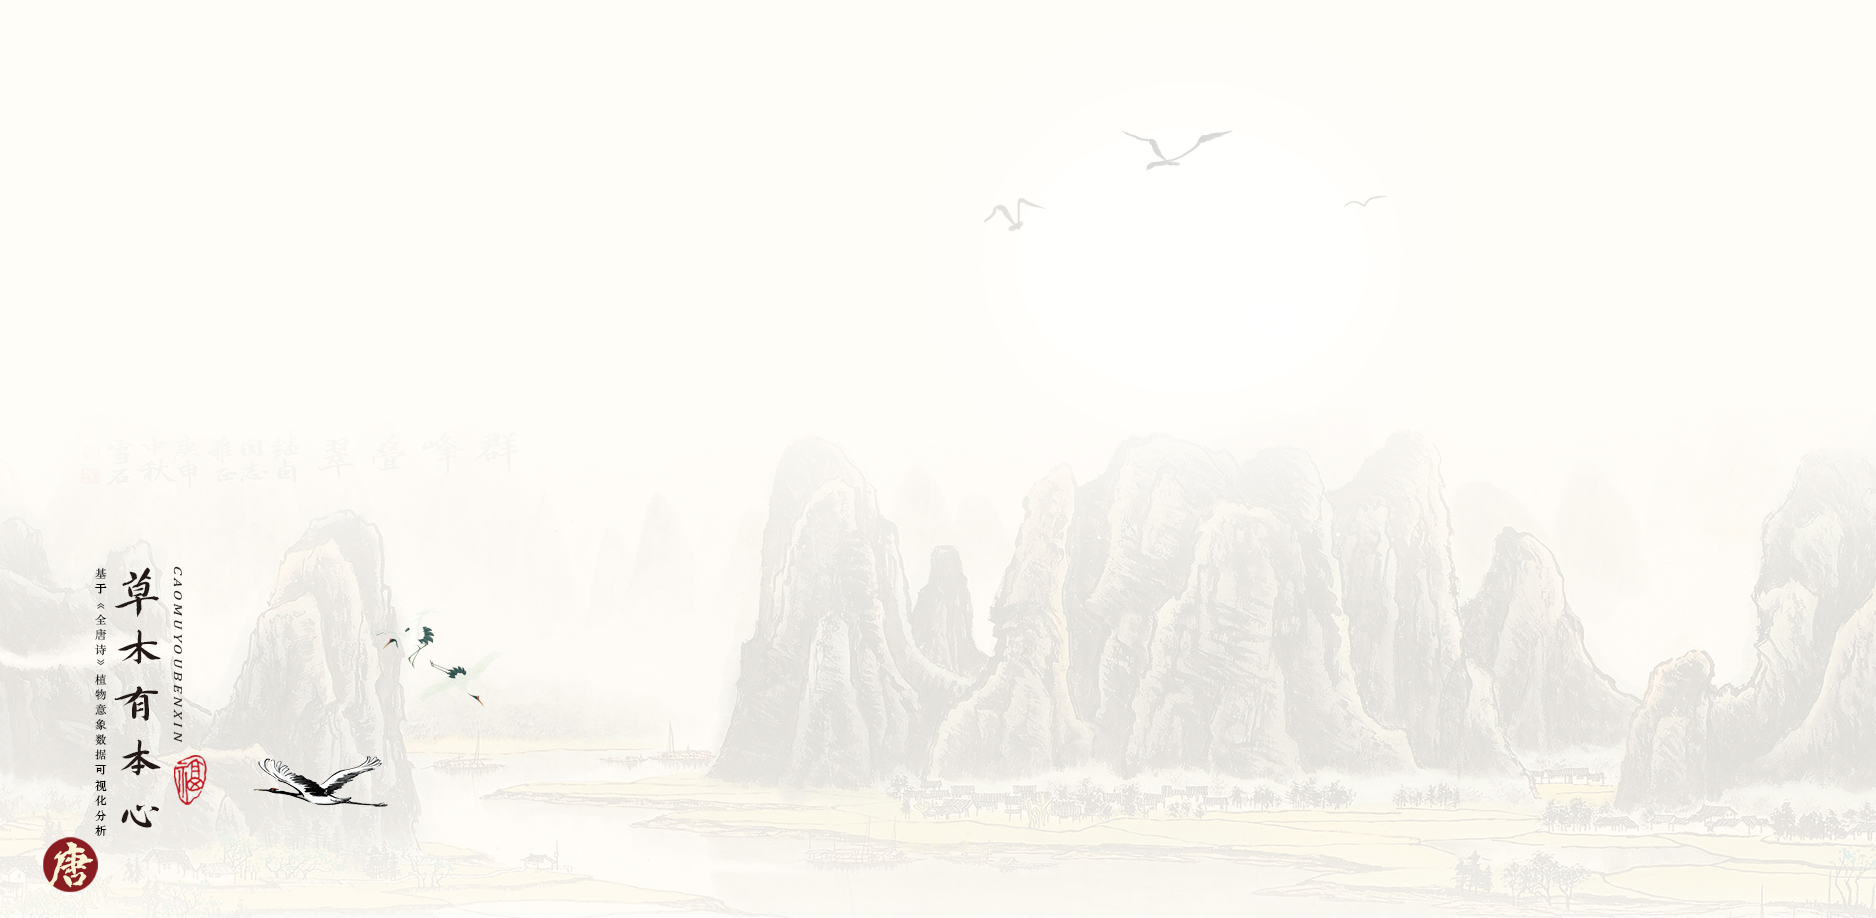
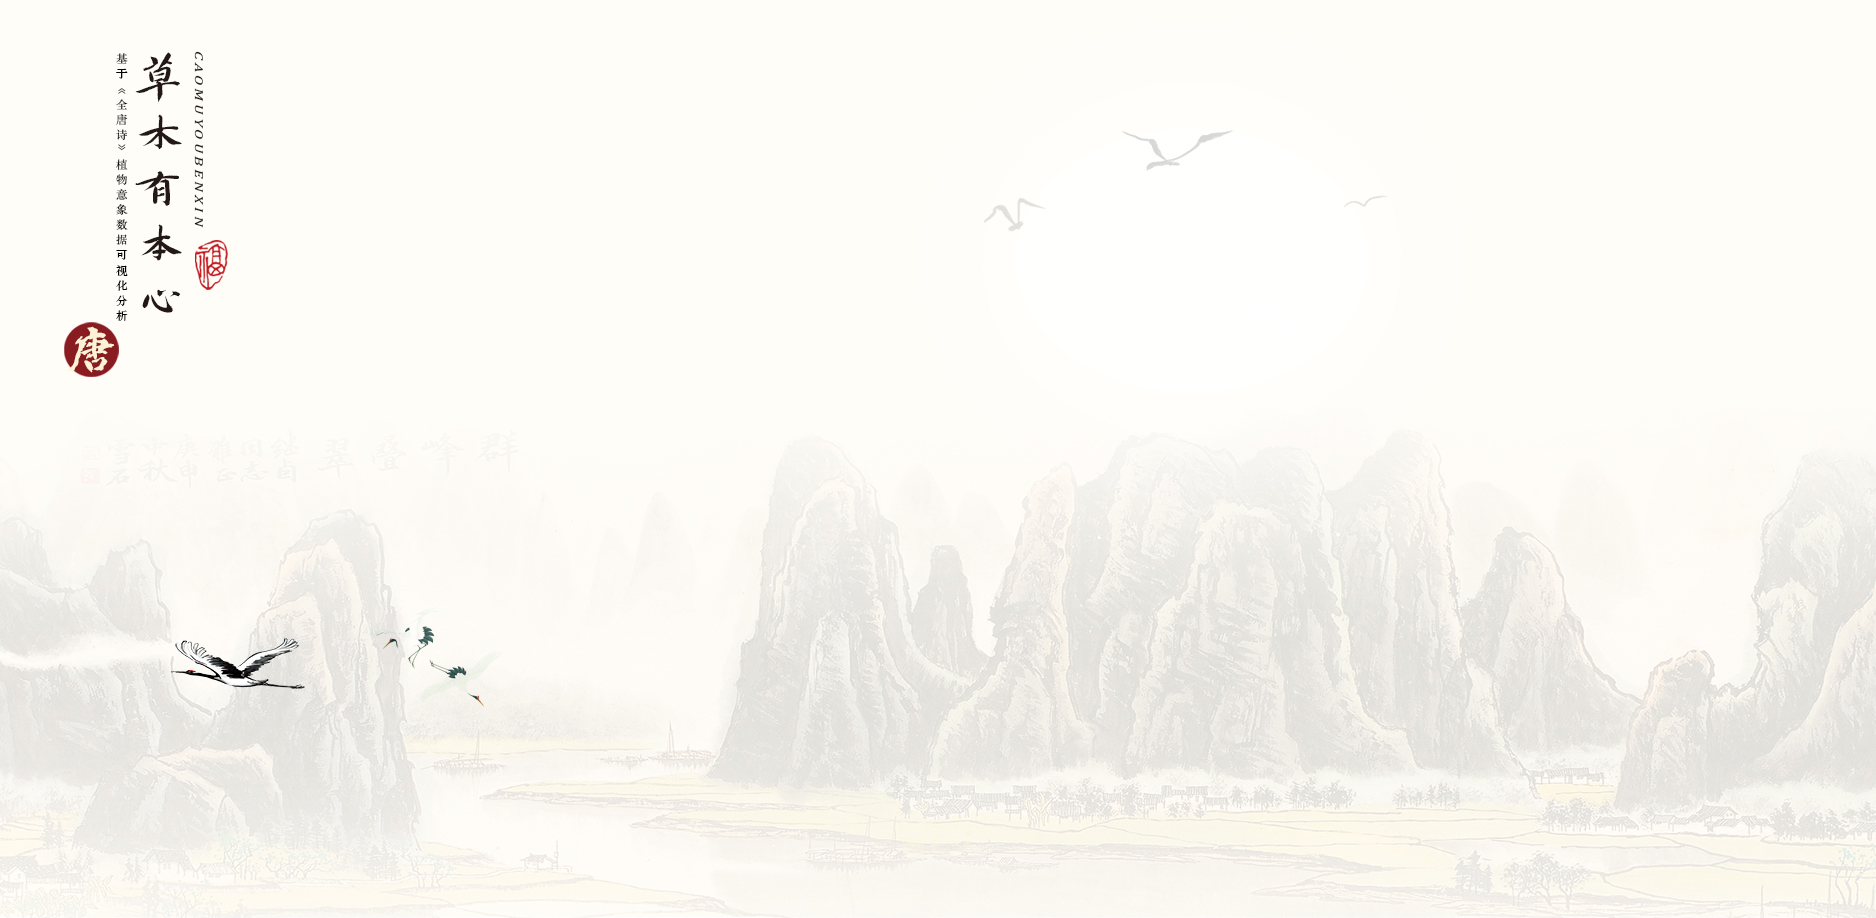
调整布局

diff --git a/js/bars.js b/js/bars.js
@@ -56,7 +56,7 @@ option = {
     /*改成植物数据*/
     xAxis: {
         type: 'category',
-        data: ['柳树', '李', '杨树', '茶', '莲', '飞蓬', '梁', '泽兰', '木樨', '肉桂', '桑树', '竹', '梅', '地钱', '香蒲', '白茅', '梧桐', '桐花', '藜', '稻', '枫', '菊花', '稷', '大麻', '芦苇'],
+        data: ['芦苇', '大麻', '稷', '菊花', '枫', '稻', '藜', '桐花', '梧桐', '白茅', '香蒲', '地钱', '梅', '竹', '桑树', '肉桂', '木樨', '泽兰', '梁', '飞蓬', '莲', '茶', '杨树', '李', '柳树'],
         axisLine: {
             show: false
         },
@@ -67,187 +67,187 @@ option = {
     /*一个情感对应一个{}*/
     series: [
         {
-            name: '爱情',
+            name:'爱情',
             type: 'bar',
             stack: 'total',
             label: {
-                show: false
+            show: false
             },
             emphasis: {
-                focus: 'series'
+            focus: 'series'
             },
-            data: [9, 5, 8, 3, 18, 6, 5, 5, 4, 4, 0, 3, 2, 1, 1, 0, 2, 1, 1, 0, 1, 0, 0, 0, 1]
-        },
-        {
-            name: '赞美',
+            data:[1, 0, 0, 0, 1, 0, 1, 1, 2, 0, 1, 1, 2, 3, 0, 4, 4, 5, 5, 6, 18, 3, 8, 5, 9]
+            },
+            {
+            name:'赞美',
             type: 'bar',
             stack: 'total',
             label: {
-                show: false
+            show: false
             },
             emphasis: {
-                focus: 'series'
+            focus: 'series'
             },
-            data: [10, 9, 6, 7, 5, 3, 5, 9, 2, 2, 3, 5, 4, 0, 4, 1, 2, 1, 3, 1, 0, 1, 1, 1, 0]
-        },
-        {
-            name: '友情',
+            data:[0, 1, 1, 1, 0, 1, 3, 1, 2, 1, 4, 0, 4, 5, 3, 2, 2, 9, 5, 3, 5, 7, 6, 9, 10]
+            },
+            {
+            name:'友情',
             type: 'bar',
             stack: 'total',
             label: {
-                show: false
+            show: false
             },
             emphasis: {
-                focus: 'series'
+            focus: 'series'
             },
-            data: [13, 22, 8, 8, 5, 6, 10, 4, 7, 7, 5, 0, 2, 3, 1, 6, 3, 4, 1, 3, 1, 3, 1, 2, 0]
-        },
-        {
-            name: '励志',
+            data:[0, 2, 1, 3, 1, 3, 1, 4, 3, 6, 1, 3, 2, 0, 5, 7, 7, 4, 10, 6, 5, 8, 8, 22, 13]
+            },
+            {
+            name:'励志',
             type: 'bar',
             stack: 'total',
             label: {
-                show: false
+            show: false
             },
             emphasis: {
-                focus: 'series'
+            focus: 'series'
             },
-            data: [3, 9, 3, 4, 3, 6, 1, 3, 1, 1, 1, 3, 2, 3, 2, 1, 1, 1, 0, 1, 1, 2, 3, 1, 0]
-        },
-        {
-            name: '闲适',
+            data:[0, 1, 3, 2, 1, 1, 0, 1, 1, 1, 2, 3, 2, 3, 1, 1, 1, 3, 1, 6, 3, 4, 3, 9, 3]
+            },
+            {
+            name:'闲适',
             type: 'bar',
             stack: 'total',
             label: {
-                show: false
+            show: false
             },
             emphasis: {
-                focus: 'series'
+            focus: 'series'
             },
-            data: [3, 3, 1, 6, 6, 0, 1, 2, 0, 0, 0, 3, 1, 1, 5, 4, 1, 1, 0, 1, 1, 0, 1, 0, 1]
-        },
-        {
-            name: '抒怀',
+            data:[1, 0, 1, 0, 1, 1, 0, 1, 1, 4, 5, 1, 1, 3, 0, 0, 0, 2, 1, 0, 6, 6, 1, 3, 3]
+            },
+            {
+            name:'抒怀',
             type: 'bar',
             stack: 'total',
             label: {
-                show: false
+            show: false
             },
             emphasis: {
-                focus: 'series'
+            focus: 'series'
             },
-            data: [19, 7, 5, 7, 6, 5, 5, 2, 4, 4, 4, 7, 5, 5, 3, 1, 2, 3, 6, 3, 1, 6, 2, 2, 1]
-        },
-        {
-            name: '思乡',
+            data:[1, 2, 2, 6, 1, 3, 6, 3, 2, 1, 3, 5, 5, 7, 4, 4, 4, 2, 5, 5, 6, 7, 5, 7, 19]
+            },
+            {
+            name:'思乡',
             type: 'bar',
             stack: 'total',
             label: {
-                show: false
+            show: false
             },
             emphasis: {
-                focus: 'series'
+            focus: 'series'
             },
-            data: [18, 1, 5, 6, 3, 4, 1, 3, 3, 3, 4, 0, 5, 2, 2, 2, 1, 0, 0, 0, 2, 3, 0, 2, 2]
-        },
-        {
-            name: '思念',
+            data:[2, 2, 0, 3, 2, 0, 0, 0, 1, 2, 2, 2, 5, 0, 4, 3, 3, 3, 1, 4, 3, 6, 5, 1, 18]
+            },
+            {
+            name:'思念',
             type: 'bar',
             stack: 'total',
             label: {
-                show: false
+            show: false
             },
             emphasis: {
-                focus: 'series'
+            focus: 'series'
             },
-            data: [12, 3, 6, 4, 3, 3, 3, 4, 4, 4, 2, 2, 5, 5, 0, 0, 3, 5, 0, 1, 3, 2, 0, 0, 2]
-        },
-        {
-            name: '送别',
+            data:[2, 0, 0, 2, 3, 1, 0, 5, 3, 0, 0, 5, 5, 2, 2, 4, 4, 4, 3, 3, 3, 4, 6, 3, 12]
+            },
+            {
+            name:'送别',
             type: 'bar',
             stack: 'total',
             label: {
-                show: false
+            show: false
             },
             emphasis: {
-                focus: 'series'
+            focus: 'series'
             },
-            data: [52, 31, 25, 17, 15, 17, 10, 7, 11, 11, 5, 4, 4, 0, 2, 3, 2, 1, 7, 3, 4, 1, 2, 3, 3]
-        },
-        {
-            name: '孤寂',
+            data:[3, 3, 2, 1, 4, 3, 7, 1, 2, 3, 2, 0, 4, 4, 5, 11, 11, 7, 10, 17, 15, 17, 25, 31, 52]
+            },
+            {
+            name:'孤寂',
             type: 'bar',
             stack: 'total',
             label: {
-                show: false
+            show: false
             },
             emphasis: {
-                focus: 'series'
+            focus: 'series'
             },
-            data: [10, 2, 5, 1, 4, 1, 3, 0, 5, 5, 0, 3, 2, 5, 4, 2, 4, 5, 1, 2, 2, 2, 2, 0, 0]
-        },
-        {
-            name: '愁苦',
+            data:[0, 0, 2, 2, 2, 2, 1, 5, 4, 2, 4, 5, 2, 3, 0, 5, 5, 0, 3, 1, 4, 1, 5, 2, 10]
+            },
+            {
+            name:'愁苦',
             type: 'bar',
             stack: 'total',
             label: {
-                show: false
+            show: false
             },
             emphasis: {
-                focus: 'series'
+            focus: 'series'
             },
-            data: [17, 10, 8, 7, 6, 4, 6, 3, 2, 2, 2, 2, 4, 4, 1, 2, 3, 5, 1, 0, 1, 2, 0, 0, 1]
-        },
-        {
-            name: '忧国忧民',
+            data:[1, 0, 0, 2, 1, 0, 1, 5, 3, 2, 1, 4, 4, 2, 2, 2, 2, 3, 6, 4, 6, 7, 8, 10, 17]
+            },
+            {
+            name:'忧国忧民',
             type: 'bar',
             stack: 'total',
             label: {
-                show: false
+            show: false
             },
             emphasis: {
-                focus: 'series'
+            focus: 'series'
             },
-            data: [7, 6, 4, 7, 2, 8, 7, 2, 0, 0, 11, 3, 1, 1, 2, 6, 3, 0, 4, 7, 4, 3, 3, 5, 1]
-        },
-        {
-            name: '咏史怀古',
+            data:[1, 5, 3, 3, 4, 7, 4, 0, 3, 6, 2, 1, 1, 3, 11, 0, 0, 2, 7, 8, 2, 7, 4, 6, 7]
+            },
+            {
+            name:'咏史怀古',
             type: 'bar',
             stack: 'total',
             label: {
-                show: false
+            show: false
             },
             emphasis: {
-                focus: 'series'
+            focus: 'series'
             },
-            data: [10, 4, 6, 8, 3, 5, 12, 9, 5, 5, 2, 2, 3, 2, 1, 1, 2, 1, 0, 2, 5, 0, 6, 3, 2]
-        },
-        {
-            name: '壮志难酬',
+            data:[2, 3, 6, 0, 5, 2, 0, 1, 2, 1, 1, 2, 3, 2, 2, 5, 5, 9, 12, 5, 3, 8, 6, 4, 10]
+            },
+            {
+            name:'壮志难酬',
             type: 'bar',
             stack: 'total',
             label: {
-                show: false
+            show: false
             },
             emphasis: {
-                focus: 'series'
+            focus: 'series'
             },
-            data: [6, 3, 3, 4, 4, 4, 4, 2, 4, 4, 4, 4, 0, 3, 2, 2, 1, 1, 3, 2, 0, 0, 1, 2, 1]
-        },
-        {
-            name: '讽刺',
+            data:[1, 2, 1, 0, 0, 2, 3, 1, 1, 2, 2, 3, 0, 4, 4, 4, 4, 2, 4, 4, 4, 4, 3, 3, 6]
+            },
+            {
+            name:'讽刺',
             type: 'bar',
             stack: 'total',
             label: {
-                show: false
+            show: false
             },
             emphasis: {
-                focus: 'series'
+            focus: 'series'
             },
-            data: [7, 5, 5, 6, 7, 6, 0, 3, 1, 1, 8, 2, 0, 2, 2, 0, 1, 1, 2, 2, 0, 0, 2, 1, 2],
+            data:[2, 1, 2, 0, 0, 2, 2, 1, 1, 0, 2, 2, 0, 2, 8, 1, 1, 3, 0, 6, 7, 6, 5, 5, 7],
             barMaxWidth: 15,
             barCateGoryGap: 10
-        }
+            }
     ]
 };
 mychart.setOption(option);

diff --git a/2.html b/2.html
@@ -304,7 +304,7 @@
                                         偏爱桃的诗人
                                     </div>
                                 </div>
-                                <div class="poet-div" style="margin-top: 200px;">
+                                <div class="poet-div" style="margin-top: 150px;">
                                     诗人对应的诗
                                 </div>
                             </div>
@@ -368,7 +368,7 @@
                         </button>
                         <button id="btn5" class="btn plant-btn" type="button"  onclick="change(5)" style="position: absolute; top: 280px; left: 740px;">
                             <!-- <img class="btn-img" src="../img2/荷花.png" style="width: 50px; height: 50px; border-radius: 64%;"> -->
-                            梅
+                            <img src="./img/btn-img/梅.png" style="width:50px;">
                         </button>
                         <button id="btn1" class="btn plant-btn" type="button" onclick="change(1)" style="position: absolute; top: 380px; left: 760px;">
                             <!-- <img class="btn-img" src="../img2/松.png" style="width: 50px; height: 50px; border-radius: 64%;"> -->

diff --git a/1.html b/1.html
@@ -41,7 +41,7 @@
                 </button>
             </div>
 
-            <div class="main" style="display: flex; flex-direction: row;padding-top:50px;">
+            <div class="main" style="display: flex; flex-direction: row;padding-top:50px;padding-left:150px;">
                 <div id="sun-map" style="display: flex; flex-direction: column; margin-top: -20px;">
                     <div id="sun" style="width:600px; height: 600px;">
                     </div>
@@ -51,7 +51,7 @@
                     </div>
                 </div>
                 <div id="txt-div"
-                    style="width: 600px; height: 600px; text-align: left;margin-top:-10px;margin-left: 120px;font-size: medium;">
+                    style="width: 600px; height: 600px; text-align: left;margin-top:-10px;margin-left: 130px;font-size: medium;">
                     <span id='all_num'>
                         <br>
                         <br>

diff --git a/3.html b/3.html
@@ -60,11 +60,7 @@
                 <img src="./img/4-1.png" />
             </button>
         </div>
-        
-
-        <div class='title3'>
-            <p>&nbsp;&nbsp;&nbsp;&nbsp;&nbsp;&nbsp;&nbsp;&nbsp;&nbsp;&nbsp;&nbsp;&nbsp; 植物意象与情感对应</p>
-        </div>
+        <div class = "txt_all">“以我观物，故物皆著我之色彩”。植物被诗人赋予情感，成为了植物意象。将唐诗中常借助植物表达的15种情感按照色调划分，积极情感偏向红色，消极情感偏向深蓝，透过植物，探索唐代诗人丰富的内心世界。</div>
         <div class='main3' id = 'chart'></div>
         <script src = "js/bars.js"></script>
     </div>

diff --git a/css/page3.css b/css/page3.css
@@ -45,7 +45,7 @@ body {
   height: 80%;
   position: absolute;
   top: 20%;
-  left: 16%;
+  left: 13.5%;
 }
 .new_btn {
   background: none;
@@ -58,4 +58,10 @@ body {
 .new_btn > img {
   width: 150px; 
   /* margin-left: -50px; */
+}
+.txt_all{
+  width: 35%;
+  font-size: smaller;
+  margin-top: -7%;
+  margin-left: 16%;
 }

diff --git a/js/data.js b/js/data.js
@@ -637,7 +637,7 @@ function drawWC(x, y) {
             height: '100%',
             right: null,
             bottom: null,
-            sizeRange: [30, 50],
+            sizeRange: [27, 50],
             rotationRange: [0, 0],
             rotationStep: 25,
             gridSize: 4,

diff --git a/css/1.css b/css/1.css
@@ -74,10 +74,10 @@
 }
 
 .info-div{
-    width:500px;
+    width:600px;
     height:500px;
     text-align: center;
-
+    padding-left:100px;
     /* border: solid; */
 }
 
